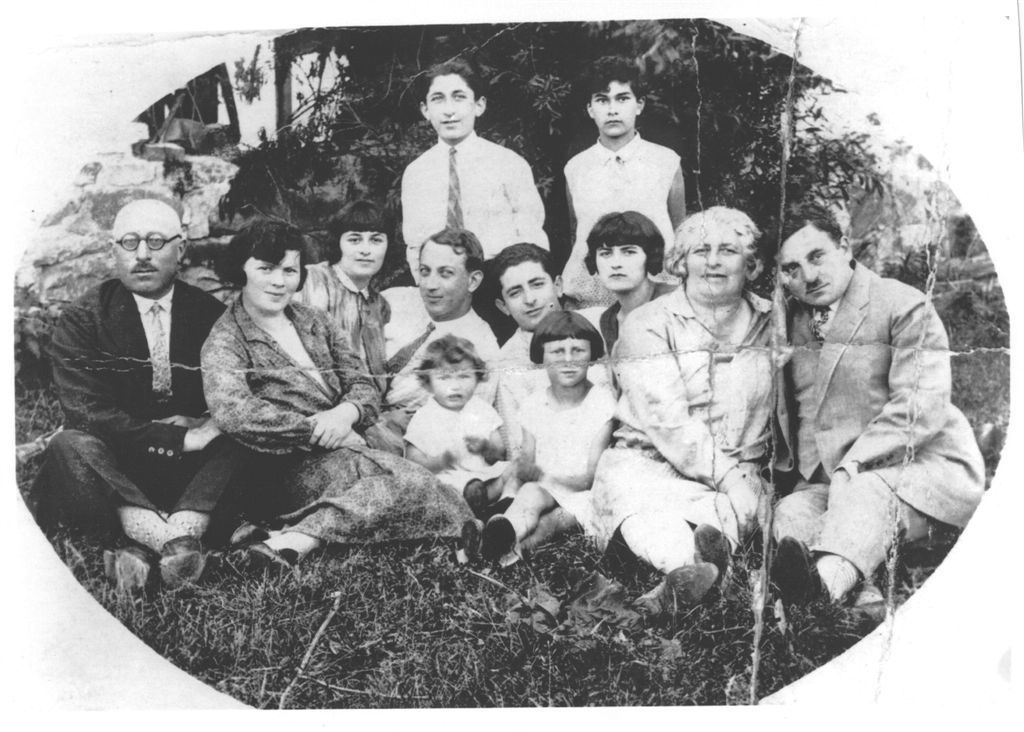
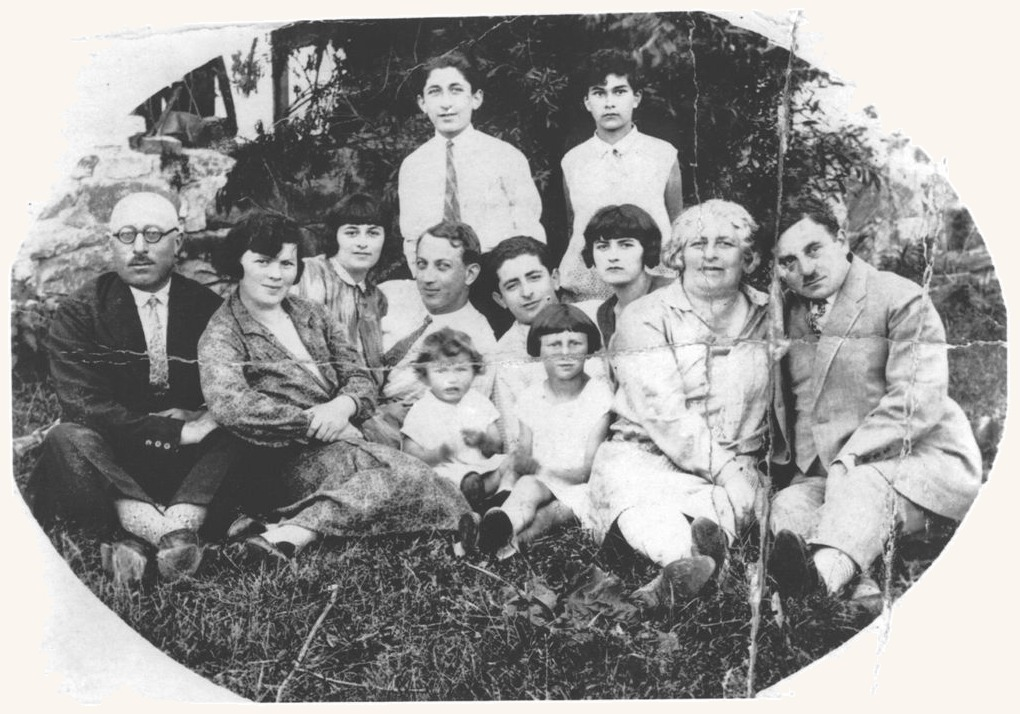
Name everyone in the 1930 oval family photo, and keep long captions in the lightbox.
The 1928 Moldovița visit photo and the 1930 Rosner–Wassermann group already on the site now have a short title on gallery and timeline thumbnails, and the full list of names only in the lightbox, in Hebrew, English and French. The oval print is cropped to its border on a neutral ground; white scan paper is removed.

diff --git a/js/app.js b/js/app.js
@@ -17,7 +17,7 @@ function locEv(e){
     title:T(p+'.title',e.title),
     text:T(p+'.text',e.text||''),
     note:e.note?T(p+'.note',e.note):e.note,
-    sources:(e.sources||[]).map((s,i)=>Object.assign({},s,{label:T(p+'.src.'+i,s.label)},s.type==='link'?{src:T(p+'.src.'+i+'.url',s.src)}:{}))
+    sources:(e.sources||[]).map((s,i)=>Object.assign({},s,{label:T(p+'.src.'+i,s.label),labelFull:T(p+'.src.'+i+'.full',s.labelFull||s.label)},s.type==='link'?{src:T(p+'.src.'+i+'.url',s.src)}:{}))
   });
 }
 const ready=(window.I18N&&I18N.ready)?I18N.ready:Promise.resolve();
@@ -100,7 +100,7 @@ Promise.all([getJSON('data/timeline.json'),getJSON('data/timeline_context.json')
   tl.innerHTML=ev.map(e=>{
     const imgs=e.sources.filter(s=>s.type==='image');
     const srcHtml=e.sources.map(s=>{
-      if(s.type==='image'){const k=imgs.indexOf(s);return `<button class="src-img" data-ev="${e.id}" data-k="${k}" title="${esc(s.label)}"><img loading="lazy" src="${esc(s.thumb||s.src)}" alt="${esc(s.label)}"><span>${esc(s.label)}</span></button>`}
+      if(s.type==='image'){const k=imgs.indexOf(s);const full=s.labelFull||s.label;return `<button class="src-img" data-ev="${e.id}" data-k="${k}" title="${esc(full)}" data-full="${esc(full)}"><img loading="lazy" src="${esc(s.thumb||s.src)}" alt="${esc(full)}"><span>${esc(s.label)}</span></button>`}
       if(s.type==='story')return `<a class="src-link" href="${esc(withLang(s.src))}">📖 ${esc(s.label)}</a>`;
       if(s.type==='anchor')return `<a class="src-link" href="${esc(s.src)}">▶ ${esc(s.label)}</a>`;
       if(s.type==='video')return `<a class="src-link vid" href="${esc(s.src)}" target="_blank" rel="noopener">🎥 ${esc(s.label)}</a>`;
@@ -112,7 +112,7 @@ Promise.all([getJSON('data/timeline.json'),getJSON('data/timeline_context.json')
     const b=x.target.closest('.src-img');
     if(!b)return;
     const e=ev.find(q=>q.id===b.dataset.ev);
-    openLB(e.sources.filter(s=>s.type==='image'),+b.dataset.k);
+    openLB(e.sources.filter(s=>s.type==='image').map(s=>Object.assign({},s,{label:s.labelFull||s.label})),+b.dataset.k);
   });
   const f=$('#tlFilter');f.innerHTML=ERAS.map((r,i)=>`<button data-i="${i}" class="${i?'':'on'}">${r[0]}</button>`).join('')+'<label class="ctx-toggle"><input type="checkbox" id="ctxToggle"> '+esc(T('tl.showCtx','הצג אירועי רקע היסטורי'))+'</label>';
   const ctx=()=>tl.classList.toggle('show-ctx',$('#ctxToggle').checked);$('#ctxToggle').onchange=ctx;
@@ -152,9 +152,9 @@ const PERIOD_KEY={
   '2000–2016':'gallery.period.5'
 };
 getJSON('data/gallery.json').then(g=>{
-  const items=g.map(x=>({src:x.full,label:T('gallery.'+x.id,x.caption),thumb:x.thumb,period:x.period}));
+  const items=g.map(x=>{const short=T('gallery.'+x.id,x.caption);const full=T('gallery.'+x.id+'.full',x.captionFull||short);return{src:x.full,label:full,short,thumb:x.thumb,period:x.period};});
   const periods=[...new Set(items.map(x=>x.period))];
-  $('#galleryWrap').innerHTML=periods.map(p=>`<h3 class="g-period">${esc(T(PERIOD_KEY[p]||'',p))}</h3><div class="grid">${items.map((x,i)=>x.period===p?`<button data-i="${i}"><img loading="lazy" src="${esc(x.thumb)}" alt="${esc(x.label)}"><span>${esc(x.label)}</span></button>`:'').join('')}</div>`).join('');
+  $('#galleryWrap').innerHTML=periods.map(p=>`<h3 class="g-period">${esc(T(PERIOD_KEY[p]||'',p))}</h3><div class="grid">${items.map((x,i)=>x.period===p?`<button data-i="${i}" data-full="${esc(x.label)}"><img loading="lazy" src="${esc(x.thumb)}" alt="${esc(x.label)}"><span>${esc(x.short)}</span></button>`:'').join('')}</div>`).join('');
   $('#galleryWrap').onclick=x=>{const b=x.target.closest('button');if(!b)return;openLB(items,+b.dataset.i)}});
 /* ---------- memories ---------- */
 const CFG=window.SITE_CONFIG||{};const EP=CFG.MEMORIES_ENDPOINT||'';const MAXMB=CFG.MAX_UPLOAD_MB||25;if($('#maxMb'))$('#maxMb').textContent=MAXMB;

diff --git a/js/search.js b/js/search.js
@@ -72,8 +72,9 @@ function buildIndex(){
   document.querySelectorAll('#tl li.ev').forEach(li=>{
     const card=li.querySelector('.ev-card');if(!card)return;
     const srcLabels=[...card.querySelectorAll('.src-img span,.src-link')].map(txt).join(' · ');
+    const srcFull=[...card.querySelectorAll('.src-img[data-full]')].map(b=>b.getAttribute('data-full')||'').join(' ');
     items.push({type:'event',el:li,title:txt(card.querySelector('h3')),sub:txt(card.querySelector('.ev-date')),
-      body:[...card.querySelectorAll('p')].map(txt).join(' ')+' '+srcLabels});
+      body:[...card.querySelectorAll('p')].map(txt).join(' ')+' '+srcLabels+' '+srcFull});
   });
   document.querySelectorAll('#memList article.mem').forEach(a=>{
     items.push({type:'memory',el:a,title:txt(a.querySelector('.who')),sub:txt(a.querySelector('.when')),body:txt(a.querySelector('.mem-body'))});
@@ -81,7 +82,7 @@ function buildIndex(){
   document.querySelectorAll('#galleryWrap .grid button').forEach(b=>{
     const img=b.querySelector('img');
     const per=b.closest('.grid')&&b.closest('.grid').previousElementSibling;
-    items.push({type:'photo',el:b,title:txt(b.querySelector('span')),sub:txt(per),body:'',thumb:img&&img.getAttribute('src')});
+    items.push({type:'photo',el:b,title:txt(b.querySelector('span')),sub:txt(per),body:b.getAttribute('data-full')||'',thumb:img&&img.getAttribute('src')});
   });
   document.querySelectorAll('#docs .doc').forEach(d=>{
     const img=d.querySelector('.pages img');
